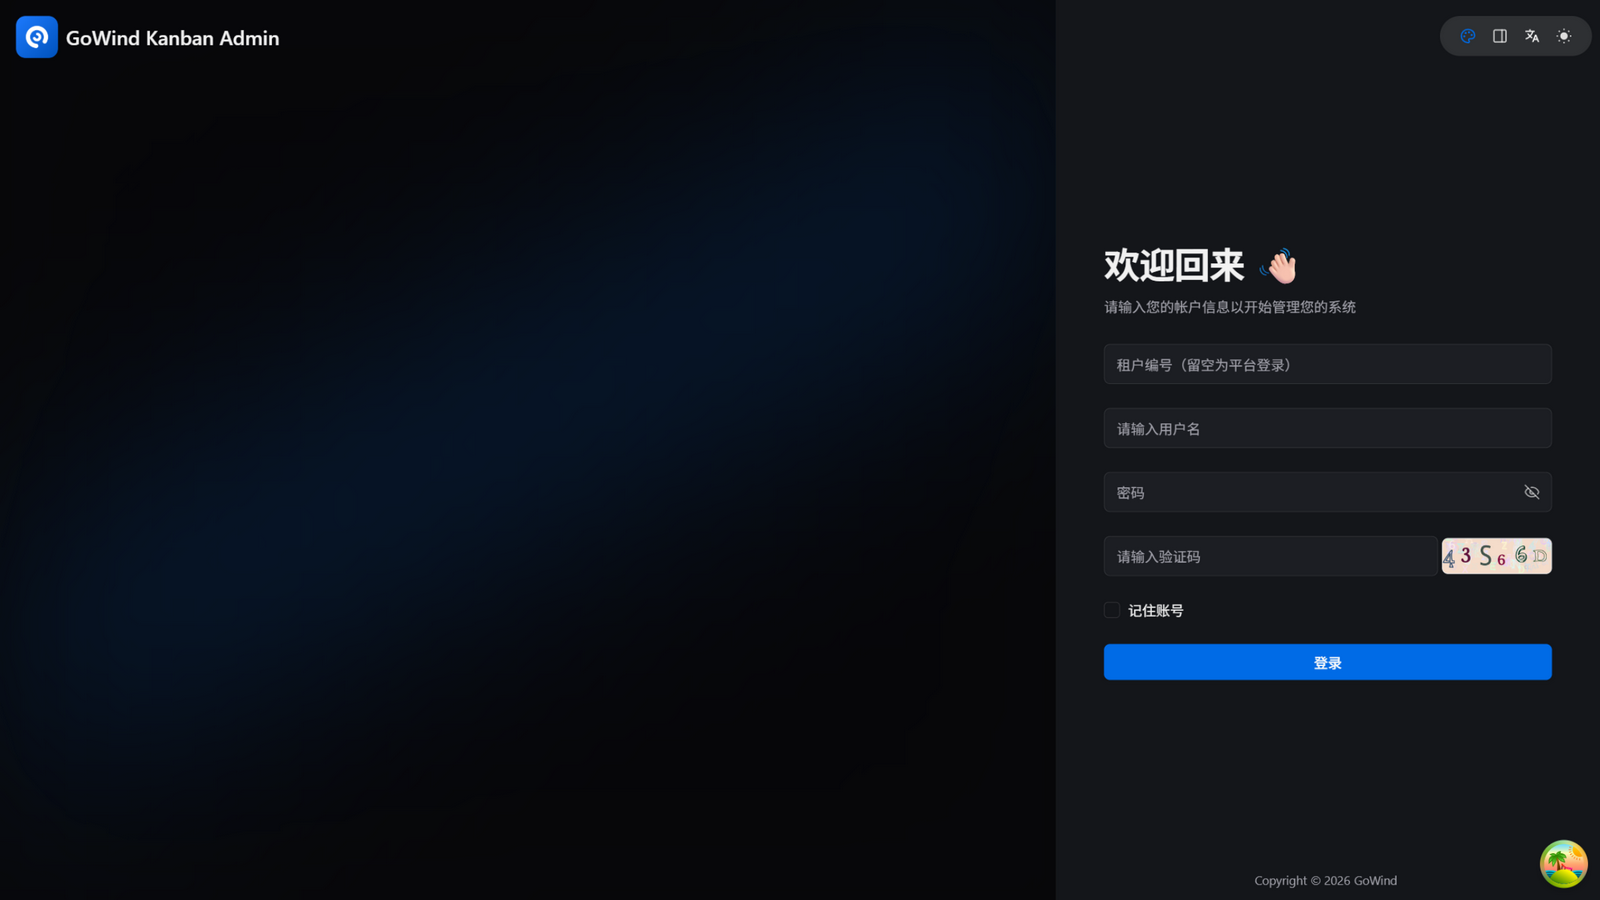
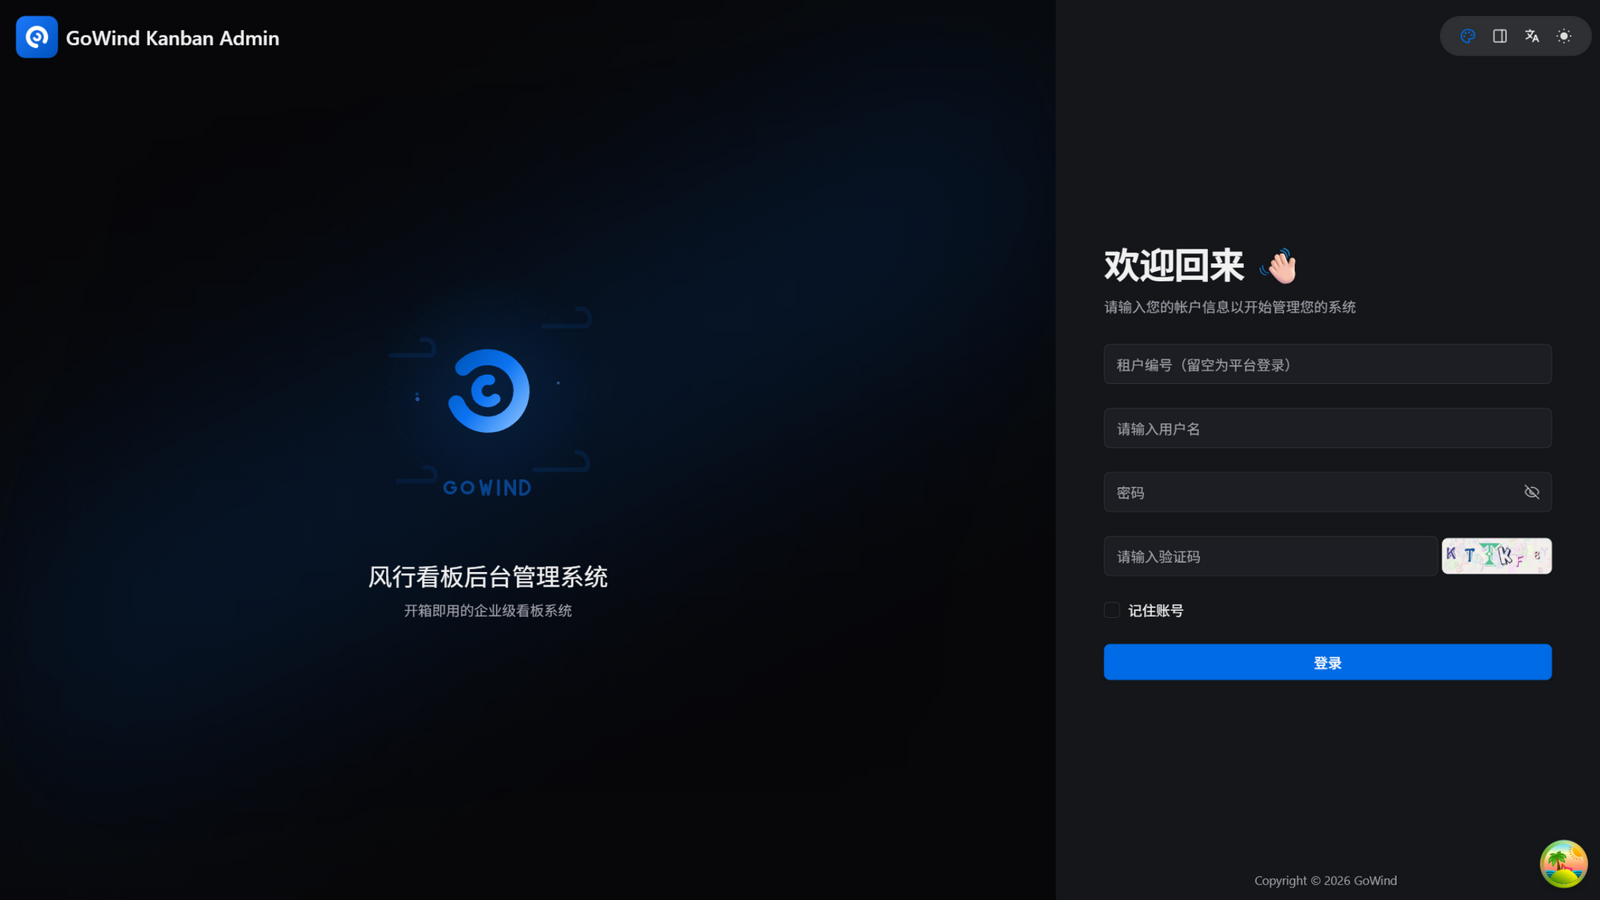
fix(role): 全量更新语义——mask 为空时载荷非 nil 即处理；更新登录截图

diff --git a/backend/app/core/service/internal/data/role_repo.go b/backend/app/core/service/internal/data/role_repo.go
@@ -584,7 +584,11 @@ func (r *RoleRepo) Update(ctx context.Context, req *permissionV1.UpdateRoleReque
 	// 若留在 updateMask 中，当其为空时会被当作 nil 字段生成 SET permissions=NULL 的 SQL，触发列不存在错误。
 	// 关联关系由下方的 ReplacePermissions 单独维护。
 	// 同时记录是否需要处理权限（用户在表单中提交了权限项，含清空场景）。
-	updatePermissions := req.UpdateMask != nil && hasPath("permissions", req.UpdateMask)
+	// 全量更新语义（mask 为空）：关联字段载荷非 nil 即处理（显式空数组=清空，
+	// 未设置=保持原值）。此前仅认 mask 声明，全量表单提交改权限会被静默丢弃。
+	fullUpdate := req.UpdateMask == nil || len(req.UpdateMask.GetPaths()) == 0
+	updatePermissions := fullUpdate && req.Data.Permissions != nil ||
+		(req.UpdateMask != nil && hasPath("permissions", req.UpdateMask))
 	updateParentID := req.UpdateMask != nil &&
 		(hasPath("parent_id", req.UpdateMask) || hasPath("parentId", req.UpdateMask))
 	if req.UpdateMask != nil {
@@ -687,6 +691,10 @@ func (r *RoleRepo) Delete(ctx context.Context, req *permissionV1.DeleteRoleReque
 	}
 	ret, err := roleQuery.Only(ctx)
 	if err != nil {
+		// 行不存在（并发删除/重复删除）按 404 语义返回，而非 500。
+		if ent.IsNotFound(err) {
+			return permissionV1.ErrorNotFound("role not found")
+		}
 		r.log.Errorf("get role failed: %s", err.Error())
 		return permissionV1.ErrorInternalServerError("get role failed")
 	}
